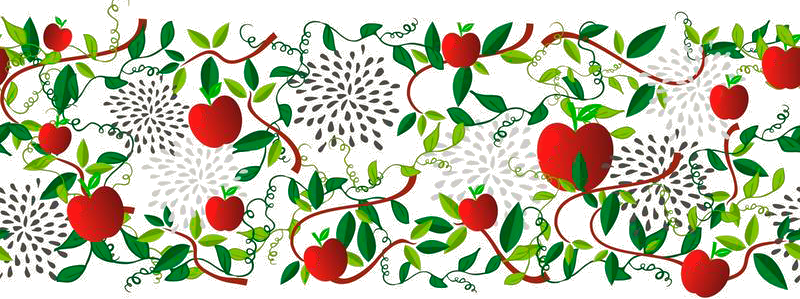
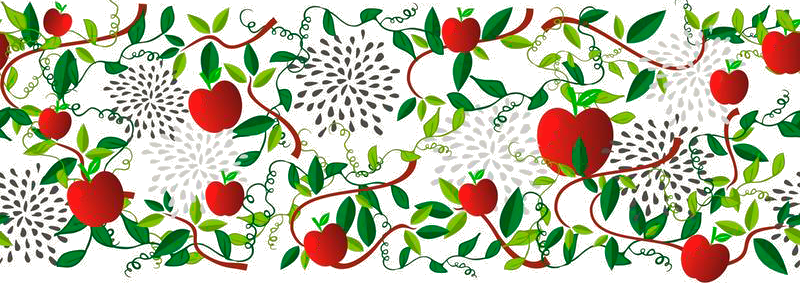
intenté mejorar el fondo

diff --git a/css/miestilo.css b/css/miestilo.css
@@ -3,23 +3,45 @@
     padding: 0;
     box-sizing: border-box;
     background-color: antiquewhite;
+    background-image: url(../img/fondo.jpg);
+    font-family: 'Franklin Gothic Medium', 'Arial Narrow', Arial, sans-serif;
+    
 
+}
+
+body{
+   
+    
 }
 
 header h1{
-    background-image: url(../img/Guirnalda.png) ;
-    padding: 1% ;
-    margin: 1%;
-    color: red ;
+    
+    padding: 3%;
+    margin: 3%;
+    color: rgb(90, 57, 37) ;
     font-weight: bold;
-    font-family: 'Oswald', sans-serif;
+    font-family: 'Rye', cursive;
     font-size: 40px;
+    background-color: rgb(194, 151, 71);
+    background-image: none;
 
 }
 
+nav{
+   
+}
 li{
     display: inline-block;
+    margin: 3%;
+    padding: 1%;
+    background-color: rgb(161, 55, 54);
+
 }
+
+
+
+
+
 
 input:enabled{
     background-color: white;

diff --git a/index.html b/index.html
@@ -8,7 +8,7 @@
     <link rel="stylesheet" href="css/miestilo.css">
     <link rel="preconnect" href="https://fonts.googleapis.com">
     <link rel="preconnect" href="https://fonts.gstatic.com" crossorigin>
-    <link href="https://fonts.googleapis.com/css2?family=Oswald&display=swap" rel="stylesheet">
+    <link href="https://fonts.googleapis.com/css2?family=Rye&display=swap" rel="stylesheet">
     <title>El Alto Valle</title>
 </head>
 
